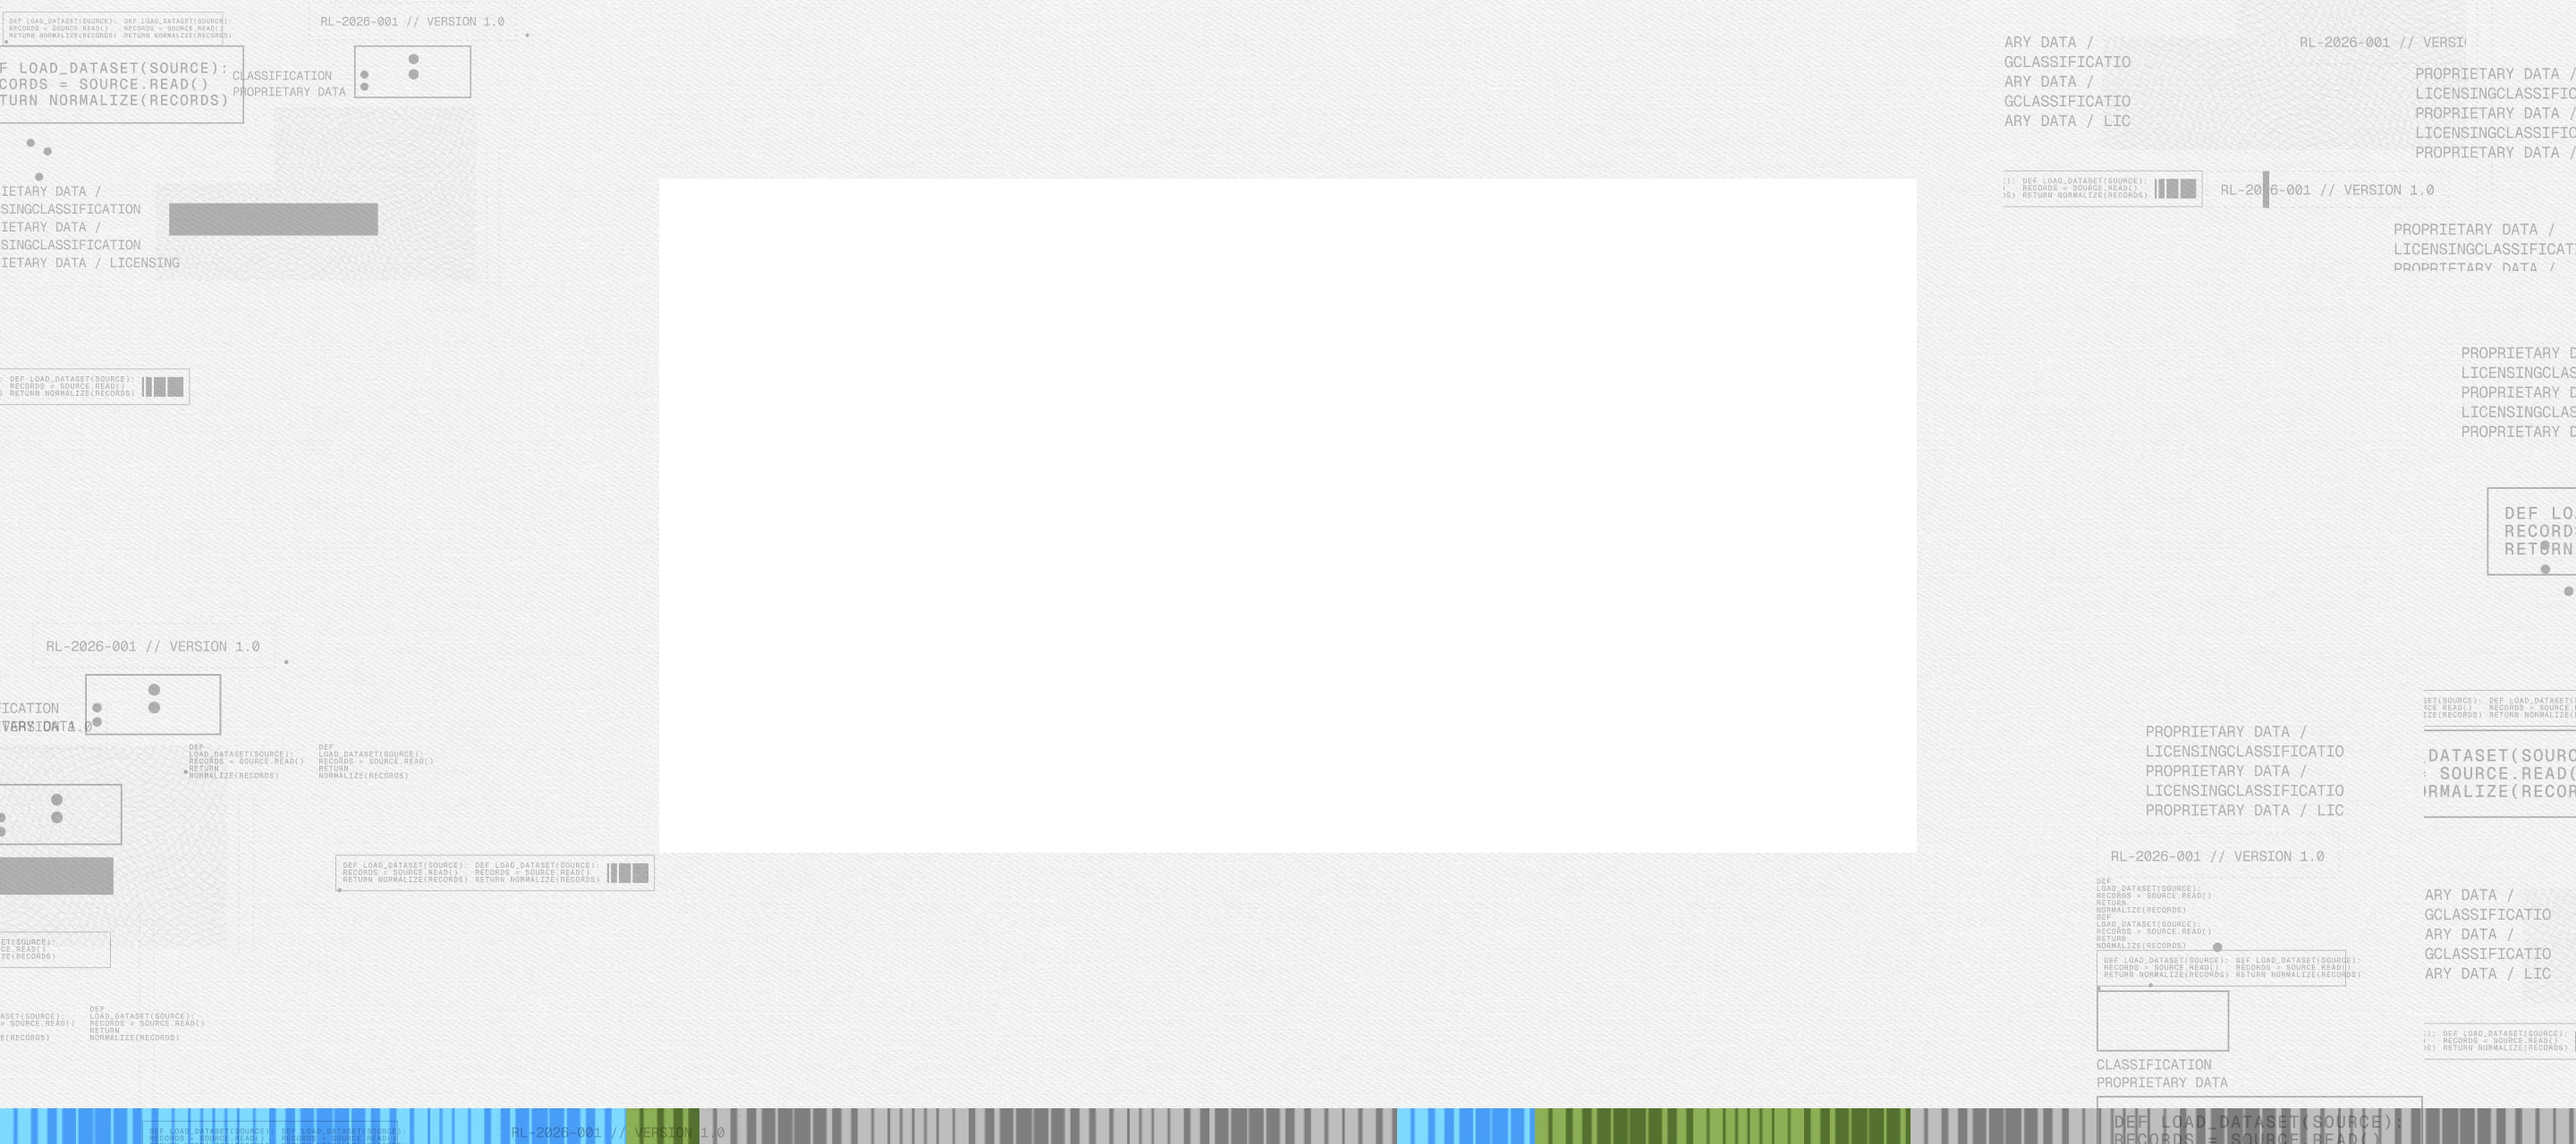
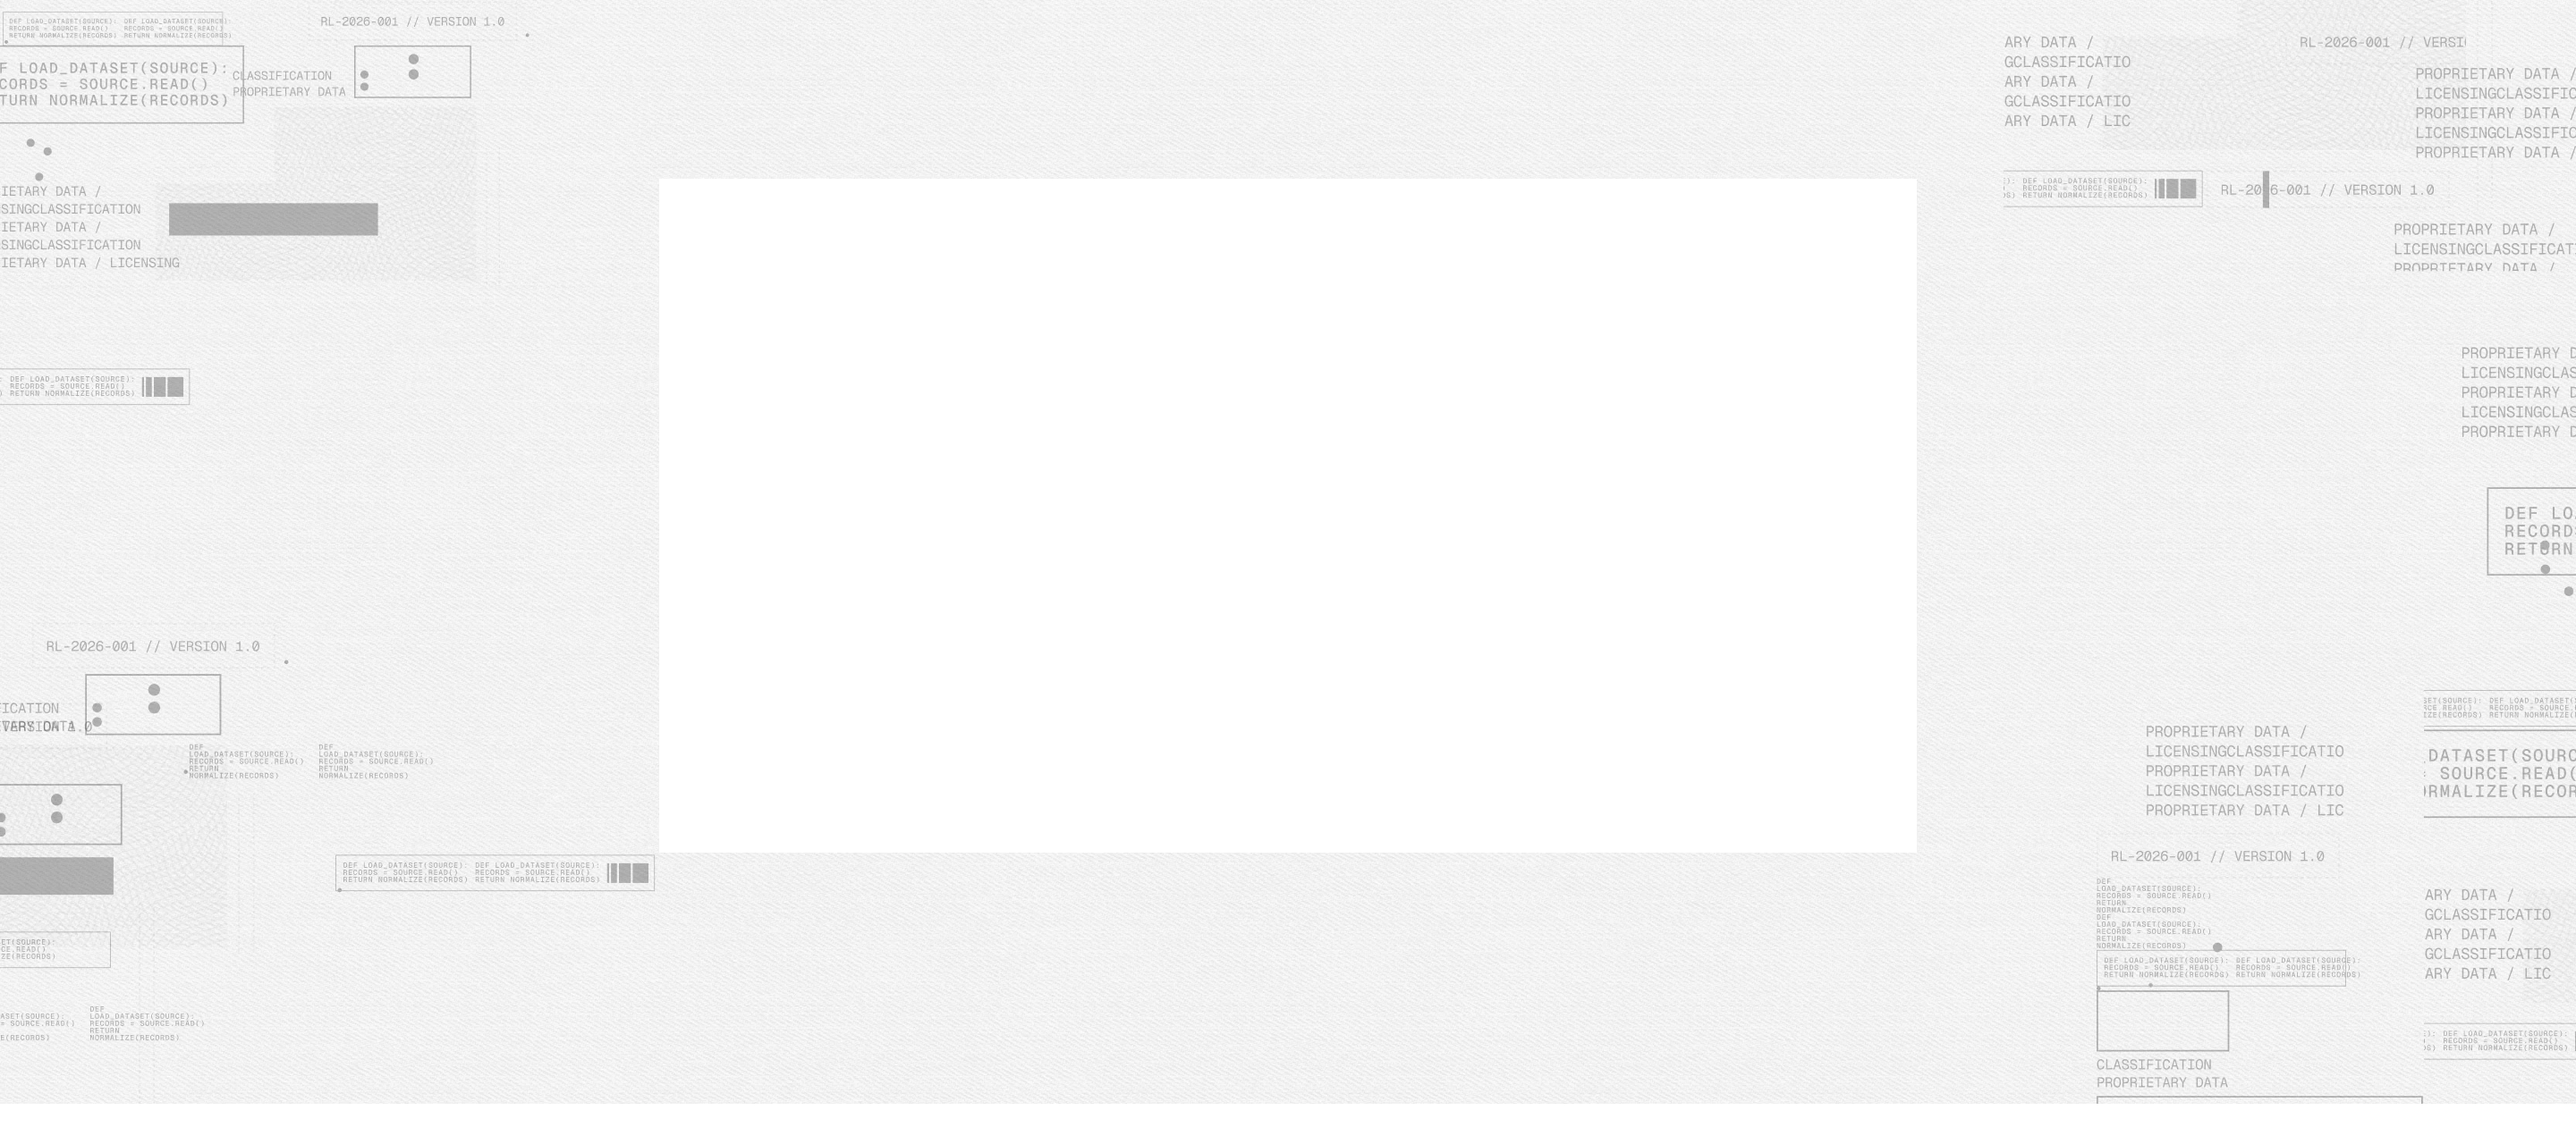
changes for the blogs page

Changed region(s): [[0.0, 0.9688, 1.0, 1.0]]

diff --git a/modules/blogs/lib/assets.ts b/modules/blogs/lib/assets.ts
@@ -13,6 +13,15 @@
  * exactly the live content block's measured position (583x256.78 centered
  * at 1440px wide, 160px from the top, plus a 16px margin) so the two don't
  * double-render on top of each other.
+ * A second, full-width hole is punched from y=1235px down to the image's
+ * own bottom edge (2880x1280 native) for the same reason: the export also
+ * baked in a copy of the colored process-bar strip the live `<ProcessBar>`
+ * renders at this section's own bottom edge. Both scale together (uniform
+ * `object-cover` at a matching aspect ratio, no cropping), but the live
+ * strip's height is a fixed `h-5` (20px) that doesn't grow with the
+ * image's own proportional scale-up past ~1500px viewport width, letting
+ * a sliver of the baked-in strip peek out above/below it - the reported
+ * "double stroke" - once the two stopped lining up exactly.
  */
 export const BLOGS_HERO_BACKGROUND = "/images/blogs/hero-bg.webp";
 
